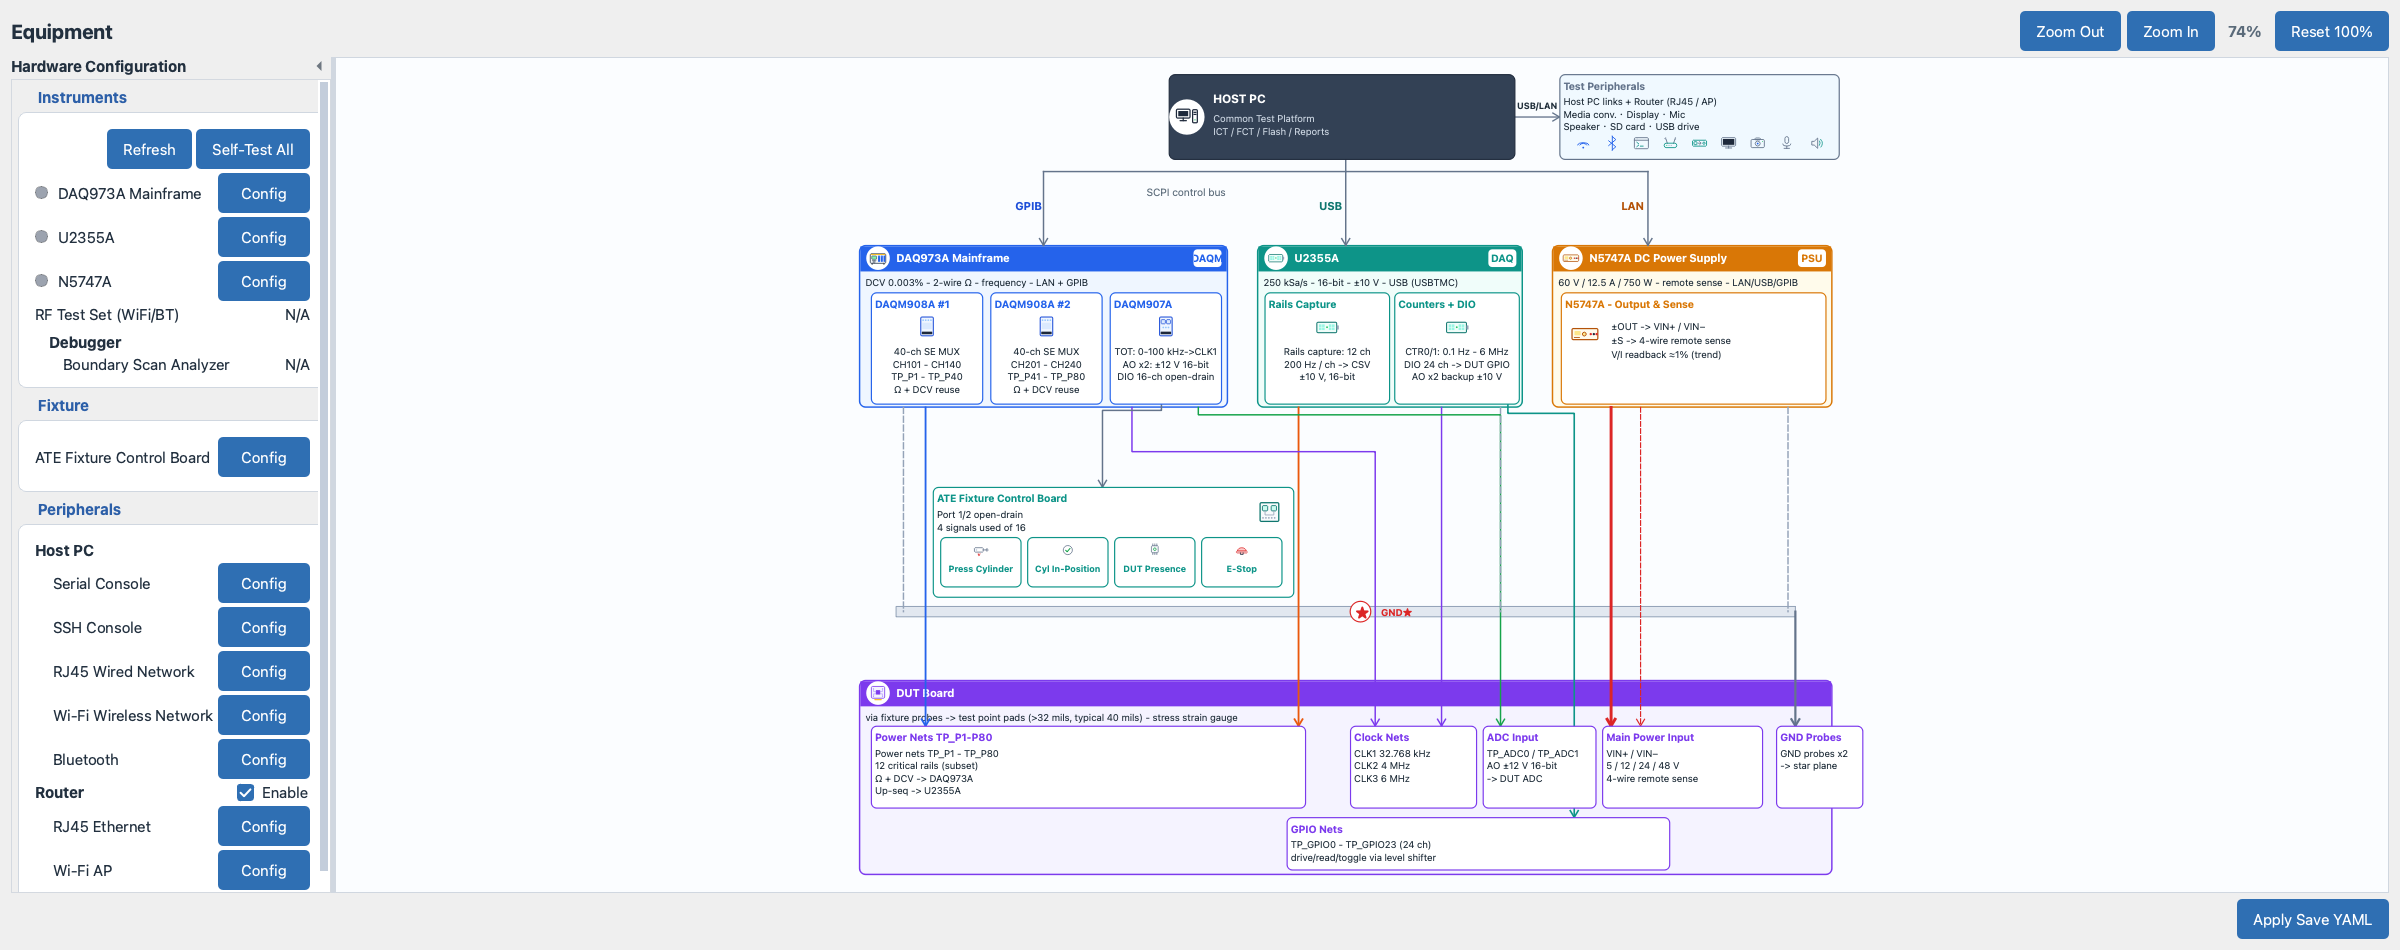
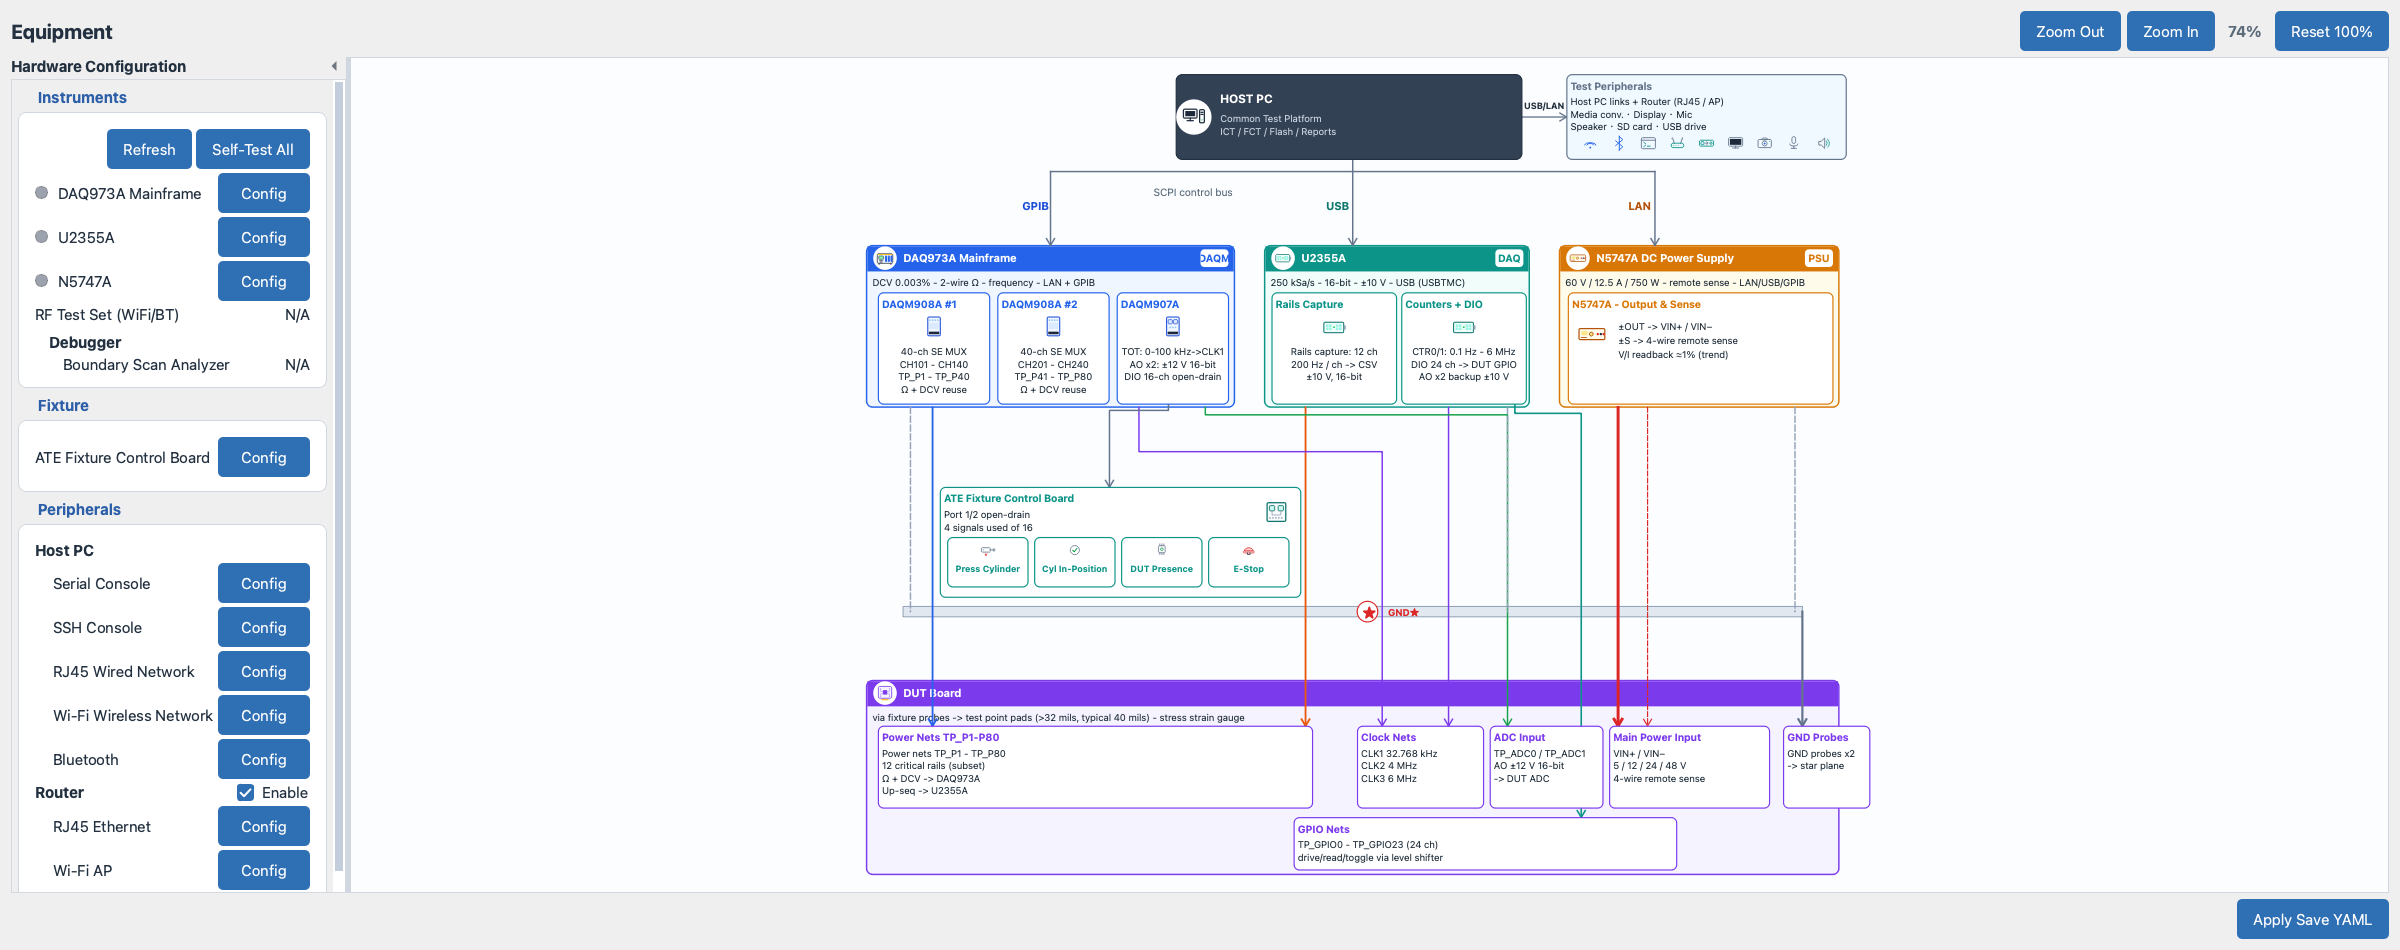
M137: node 02 fits a default window without scrollbars
- Parse nets: both net tables sit on one grid row (equal height, the
  Route B note under the right table), columns share the table width
  instead of a fixed 735 px row, headers carry a compact font and cells
  keep the full text in a tooltip.
- Wizard dialogs: chrome allowance 120 -> 200 px so a wrapped guide
  block no longer puts a scrollbar on node 01/02/04.
- Equipment: the left column reserves the body's minimum width, so the
  Config buttons stop being clipped behind the disabled horizontal bar.
- User Guide: Equipment + node 02 screenshots re-shot.

diff --git a/mtkgui/gui/yamlbuild/parse_nets_v2_panel.py b/mtkgui/gui/yamlbuild/parse_nets_v2_panel.py
@@ -10,9 +10,11 @@ Route B impedance/voltage consistency gate fails.
 from __future__ import annotations
 
 from PySide6.QtCore import Qt, Signal
+from PySide6.QtGui import QFont, QFontMetrics
 from PySide6.QtWidgets import (
     QAbstractItemView,
     QComboBox,
+    QGridLayout,
     QHBoxLayout,
     QHeaderView,
     QLabel,
@@ -58,7 +60,7 @@ class ParseNetsV2Panel(QWidget):
 
         lay = QVBoxLayout(self)
         lay.setContentsMargins(0, 0, 0, 0)
-        self.setMinimumWidth(1160)
+        self.setMinimumWidth(1168)
 
         # ------------------------------------------ move controls
         move_row = QHBoxLayout()
@@ -79,31 +81,35 @@ class ParseNetsV2Panel(QWidget):
         # M129: Parsed Nets and Other Nets used to be stacked, which left
         # two huge empty tables in the dialog.  They now share one row so
         # the four-class split reads left (used) to right (unused).
-        columns = QHBoxLayout()
-        columns.setSpacing(10)
+        # M137: a grid, not two VBox columns.  The Route B note under the
+        # right table used to shorten that table by one text line, so the
+        # two tables did not end on the same baseline; on a shared grid row
+        # both tables take the same height and the note sits underneath.
+        columns = QGridLayout()
+        columns.setContentsMargins(0, 0, 0, 0)
+        columns.setHorizontalSpacing(10)
+        columns.setVerticalSpacing(4)
 
-        left_col = QVBoxLayout()
-        left_col.setContentsMargins(0, 0, 0, 0)
         lbl = QLabel("Parsed Nets:")
         lbl.setObjectName("strong")
-        left_col.addWidget(lbl)
-        self.table = self._make_table()
-        left_col.addWidget(self.table, 1)
-
-        right_col = QVBoxLayout()
-        right_col.setContentsMargins(0, 0, 0, 0)
+        columns.addWidget(lbl, 0, 0)
         lbl_other = QLabel("Other Nets:")
         lbl_other.setObjectName("strong")
-        right_col.addWidget(lbl_other)
+        columns.addWidget(lbl_other, 0, 1)
+
+        self.table = self._make_table()
         self.table_other = self._make_table()
-        right_col.addWidget(self.table_other, 1)
+        columns.addWidget(self.table, 1, 0)
+        columns.addWidget(self.table_other, 1, 1)
+
         self.lbl_other_note = QLabel("")
         self.lbl_other_note.setObjectName("muted")
         self.lbl_other_note.setWordWrap(True)
-        right_col.addWidget(self.lbl_other_note)
+        columns.addWidget(self.lbl_other_note, 2, 1)
 
-        columns.addLayout(left_col, 1)
-        columns.addLayout(right_col, 1)
+        columns.setColumnStretch(0, 1)
+        columns.setColumnStretch(1, 1)
+        columns.setRowStretch(1, 1)
         lay.addLayout(columns, 1)
 
         # ------------------------------------------ import summary
@@ -114,19 +120,69 @@ class ParseNetsV2Panel(QWidget):
         self._render()
 
     # ------------------------------------------------------------- table
+    def resizeEvent(self, event) -> None:  # noqa: N802 - Qt override
+        super().resizeEvent(event)
+        self._fit_columns()
+
+    def _fit_columns(self) -> None:
+        """Share the table width: every header stays readable, the net name
+        takes the slack, and no column ever spills into a horizontal bar."""
+        for table in (self.table, self.table_other):
+            viewport = table.viewport().width()
+            if viewport <= 0:
+                continue
+            metrics = QFontMetrics(table.horizontalHeader().font())
+            minimums = [metrics.horizontalAdvance(col) + 14
+                        for col in V2_COLUMNS]
+            total = sum(minimums)
+            if total >= viewport:
+                scale = viewport / total
+                widths = [max(24, int(w * scale)) for w in minimums]
+                widths[0] += viewport - sum(widths)
+            else:
+                slack = viewport - total
+                widths = list(minimums)
+                widths[0] += int(slack * 0.72)
+                rest = slack - int(slack * 0.62)
+                for index in range(1, len(widths)):
+                    widths[index] += rest // (len(widths) - 1)
+            # the last column absorbs the rounding so the table ends flush
+            widths[-1] += viewport - sum(widths)
+            for column, width in enumerate(widths):
+                table.setColumnWidth(column, max(24, width))
+
     def _make_table(self) -> QTableWidget:
         table = QTableWidget(0, len(V2_COLUMNS))
         table.setHorizontalHeaderLabels(list(V2_COLUMNS))
-        table.horizontalHeader().setSectionResizeMode(
-            QHeaderView.ResizeMode.Interactive)
-        table.horizontalHeader().setStretchLastSection(True)
-        for column, width in enumerate((150, 95, 105, 100, 95, 105, 85)):
-            table.setColumnWidth(column, width)
+        # M137: fixed pixel widths summed to 735 px while the side-by-side
+        # layout gives each table ~575 px inside the dialog, so both tables
+        # carried a horizontal scrollbar on a default window.  The columns
+        # now share the table width; long names elide with a tooltip.
+        header = table.horizontalHeader()
+        header.setSectionResizeMode(QHeaderView.ResizeMode.Interactive)
+        header.setStretchLastSection(False)
         table.setEditTriggers(QAbstractItemView.EditTrigger.NoEditTriggers)
         table.setSizePolicy(QSizePolicy.Policy.Expanding,
                             QSizePolicy.Policy.Expanding)
-        table.setMinimumHeight(280)
-        table.setMinimumWidth(560)
+        table.setMinimumHeight(420)
+        table.setMinimumWidth(360)
+        table.setHorizontalScrollBarPolicy(
+            Qt.ScrollBarPolicy.ScrollBarAsNeeded)
+        table.setTextElideMode(Qt.TextElideMode.ElideRight)
+        # M137: seven columns per table, two tables per window - the global
+        # header padding (6/10) made the headers alone need 653 px per table,
+        # which no default dialog can give twice.  Compact the cell/header
+        # metrics here (the rest of the application keeps the roomier style)
+        # so both tables fit the default window without a horizontal bar.
+        table.setStyleSheet(
+            "QHeaderView::section { padding: 4px 6px; font-size: 10px; }"
+            "QTableWidget::item { padding: 2px 4px; font-size: 11px; }")
+        header_font = QFont(table.font())
+        base = header_font.pointSizeF()
+        header_font.setPointSizeF(max(8.0, (base if base > 0 else 10.0) - 1.5))
+        header_font.setBold(True)
+        table.horizontalHeader().setFont(header_font)
+        table.verticalHeader().setVisible(False)
         return table
 
     # ----------------------------------------------------------- loading
@@ -211,6 +267,7 @@ class ParseNetsV2Panel(QWidget):
             self.lbl_summary.setText(self._state.summary())
         else:
             self.lbl_summary.setText("no parse yet")
+        self._fit_columns()
 
     def _fill_table(self, table: QTableWidget, rows) -> None:
         # drop previous cell widgets first (ghost-combo guard)
@@ -233,6 +290,9 @@ class ParseNetsV2Panel(QWidget):
                     continue
                 item = QTableWidgetItem(value)
                 item.setFlags(item.flags() & ~Qt.ItemFlag.ItemIsEditable)
+                # M137: the columns share the table width, so a long net name
+                # is elided - the tooltip carries the full text.
+                item.setToolTip(value)
                 table.setItem(row_index, col, item)
 
     def _category_cell(self, table, row_index, row, current: str) -> None:
@@ -240,7 +300,11 @@ class ParseNetsV2Panel(QWidget):
         combo = QComboBox()
         combo.setInsertPolicy(QComboBox.NoInsert)
         combo.setSizeAdjustPolicy(
-            QComboBox.SizeAdjustPolicy.AdjustToContents)
+            QComboBox.SizeAdjustPolicy.AdjustToMinimumContentsLengthWithIcon)
+        combo.setMinimumContentsLength(9)
+        combo.setStyleSheet(
+            "QComboBox { padding: 0px 2px; font-size: 11px; }"
+            "QComboBox::drop-down { width: 14px; }")
         combo.addItems(list(V2_CATEGORIES))
         combo.setCurrentText(current)
         combo.currentTextChanged.connect(

diff --git a/mtkgui/gui/yamlbuild/wizard_shell.py b/mtkgui/gui/yamlbuild/wizard_shell.py
@@ -20,6 +20,7 @@ from __future__ import annotations
 
 from PySide6.QtCore import Qt, QTimer, Signal
 from PySide6.QtWidgets import (
+    QApplication,
     QDialog,
     QDialogButtonBox,
     QFrame,
@@ -546,7 +547,17 @@ class YamlBuildWizard(QWidget):
         width = max(hint.width(), content_w + 48, 760)
         # M131: the header block + action rows + button box occupy ~120 px
         # (the old 96 px allowance left node 04's last card row clipped)
-        height = max(hint.height() + 44, content_h + 120, 560)
+        # M137: the chrome around the content (title row, guide block,
+        # padlock/Save/Next row, button box) measures ~140 px; +120 left the
+        # scroll area 19 px short on the 1366-wide test screen, which put a
+        # vertical scrollbar on a dialog that should not need one.
+        # M137: the chrome around the content (title row, guide block, hint
+        # line, padlock/Save/Next row, button box) measures 190-198 px once
+        # the labels have wrapped for this width - the old +120 allowance left
+        # the scroll area short and the dialog answered with a vertical
+        # scrollbar.  200 px keeps every node scroll-free down to the point
+        # where its own panel really is taller than the screen.
+        height = max(hint.height() + 44, content_h + 200, 560)
         dlg.resize(min(width, int(avail.width() * 0.9)),
                    min(height, int(avail.height() * 0.9)))
         accepted = bool(dlg.exec())        # 1 = Apply_Save yaml, 0 = Exit

diff --git a/mtkgui/equipment_page.py b/mtkgui/equipment_page.py
@@ -2893,7 +2893,8 @@ class EquipmentPage(QWidget):
         self.splitter.setStretchFactor(1, 1)
         # M80-1: default at the computed width (longest surviving label +
         # Config button + row/scrollbar margins, clamped 320..480)
-        self.computed_left_width = self._left_column_width()
+        self.computed_left_width = max(self._left_column_width(),
+                                       self.left_list.minimumWidth() + 8)
         # the computed width is the DEFAULT; a drag may still narrow the
         # column down to the floor (labels keep their full-text tooltip)
         self.left_list.setMinimumWidth(LEFT_COLUMN_MIN_PX // 2)
@@ -2983,6 +2984,11 @@ class EquipmentPage(QWidget):
             body_lay.addWidget(group_box)
         body_lay.addStretch(1)
         self.left_list.setWidget(body)
+        # M137: the horizontal bar is switched off, so a column narrower than
+        # the body silently clipped the Config buttons on the right.  Reserve
+        # exactly the body's own minimum width.
+        self.left_list.setMinimumWidth(
+            max(240, body.minimumSizeHint().width() + 6))
         outer.addWidget(self.left_list, 1)
         self._sync_group_toggles()
         return panel

diff --git a/docs/help/version_history.md b/docs/help/version_history.md
@@ -37,11 +37,18 @@ Entry format:
 
 ## Latest activity (2026-11)
 
-GUI head: **`f68b1b5` (M136) - 2026-11-26**. Everything up to it is on
+GUI head: **M137 - pending hash**. Everything up to it is on
 `origin/develop`; a bundle built from this commit runs the same test
 logic as the head. This log itself rides one docs-only commit after the
 code head (the commit hash cannot name its own commit).
 
+- `M137` - the node 02 window fits a default window without scrollbars:
+  the two net tables share one grid row (identical height, note under the
+  right table), columns share the table width instead of fixed 735 px, the
+  headers/cells use a compact table font, and the dialog chrome allowance
+  grew from 120 to 200 px.  The Equipment left column also reserves the
+  body's own minimum width so the Config buttons are no longer clipped
+  behind the (deliberately off) horizontal bar.
 - `M136` - the Equipment left list nests `Debugger -> Boundary Scan
   Analyzer` under `Instruments`; both optional instruments stay greyed
   (`N/A`, not developed) and the analyzer is kept out of the test-module
